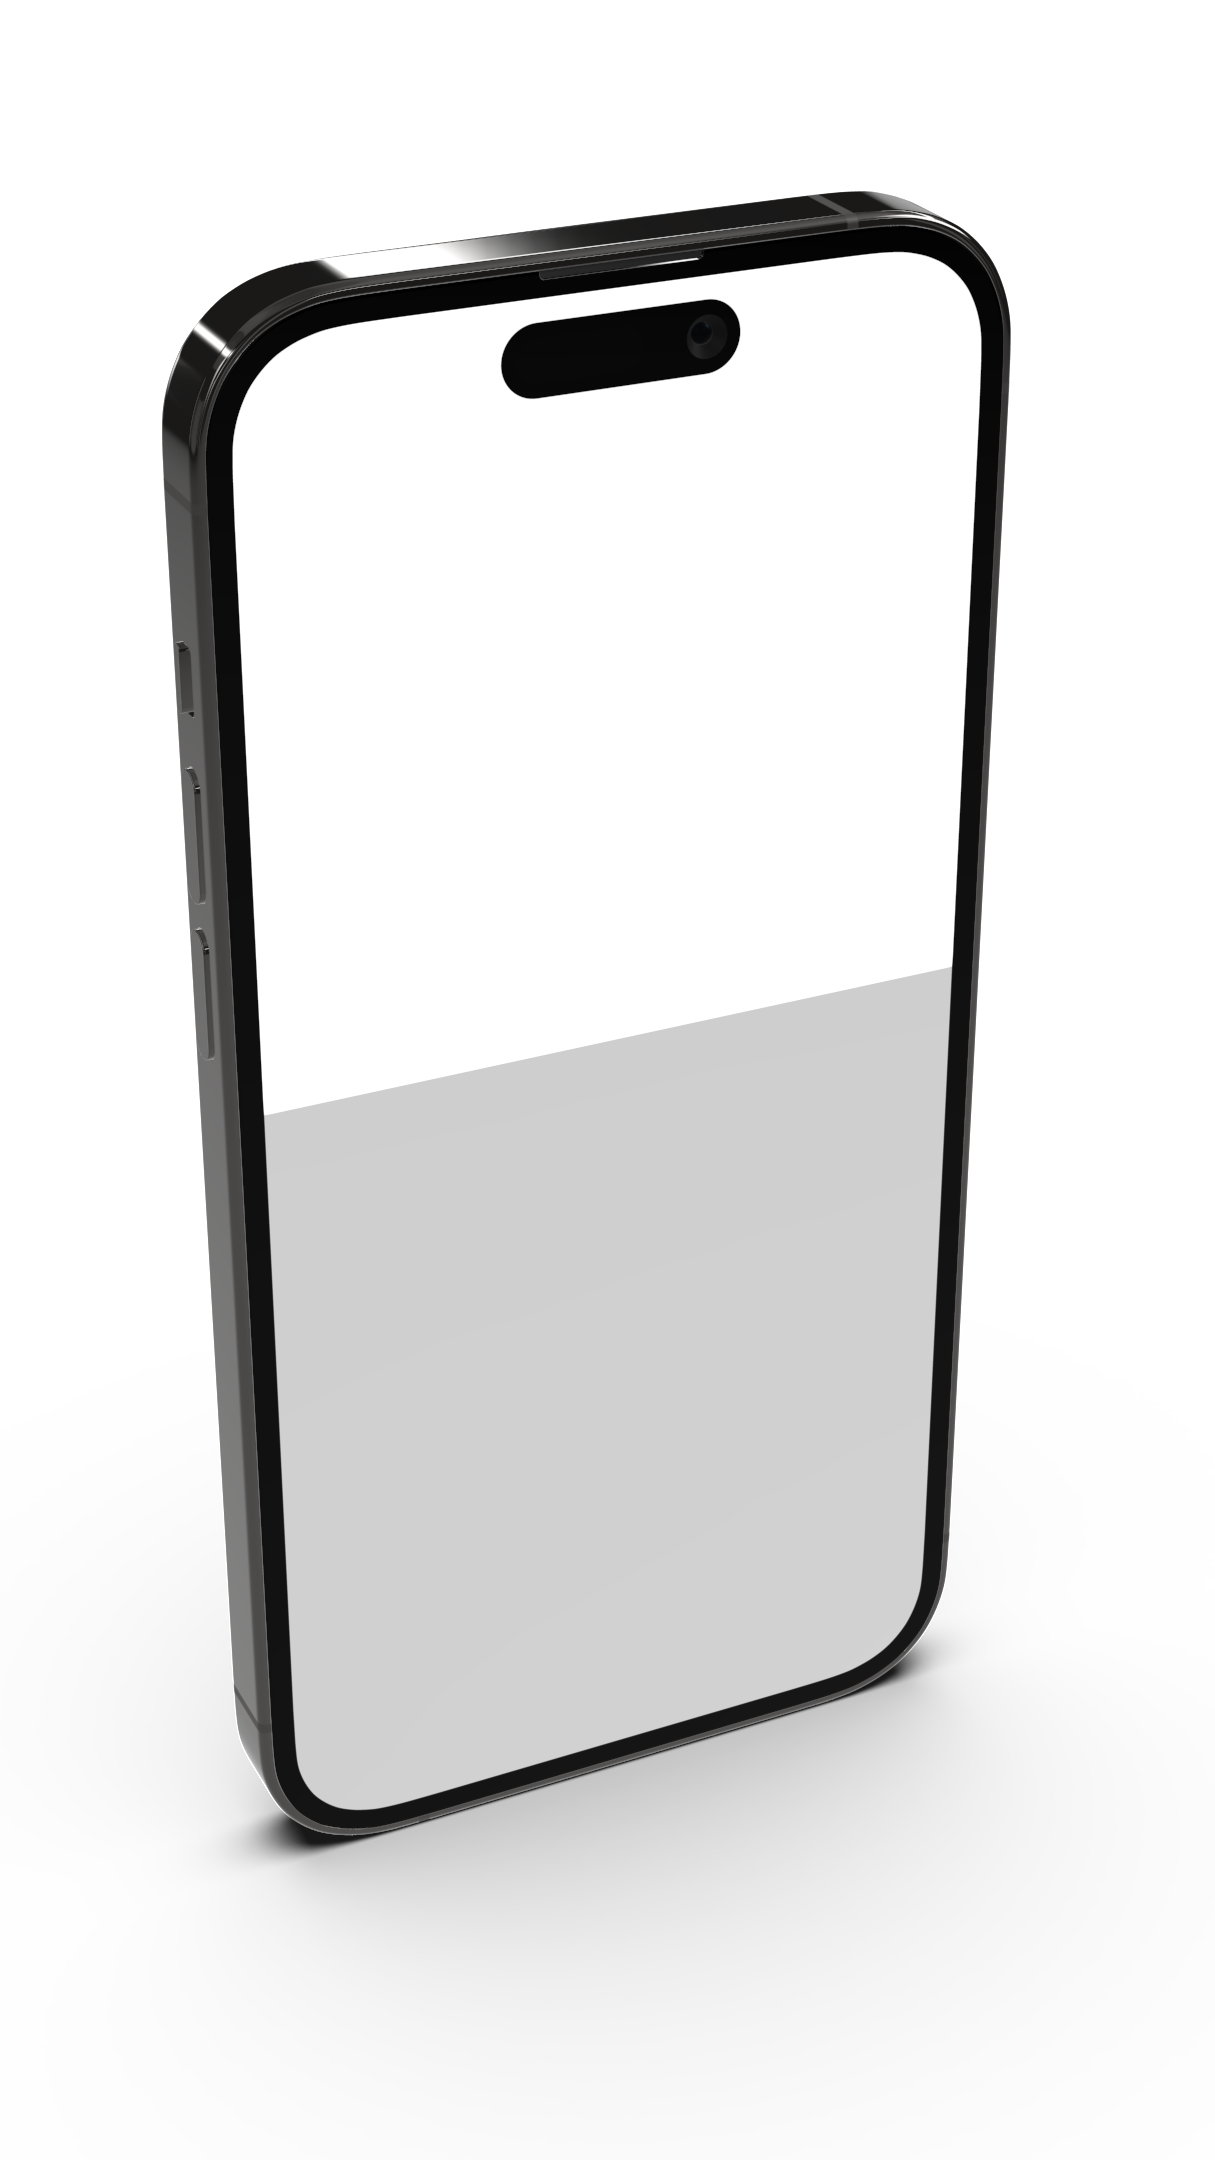
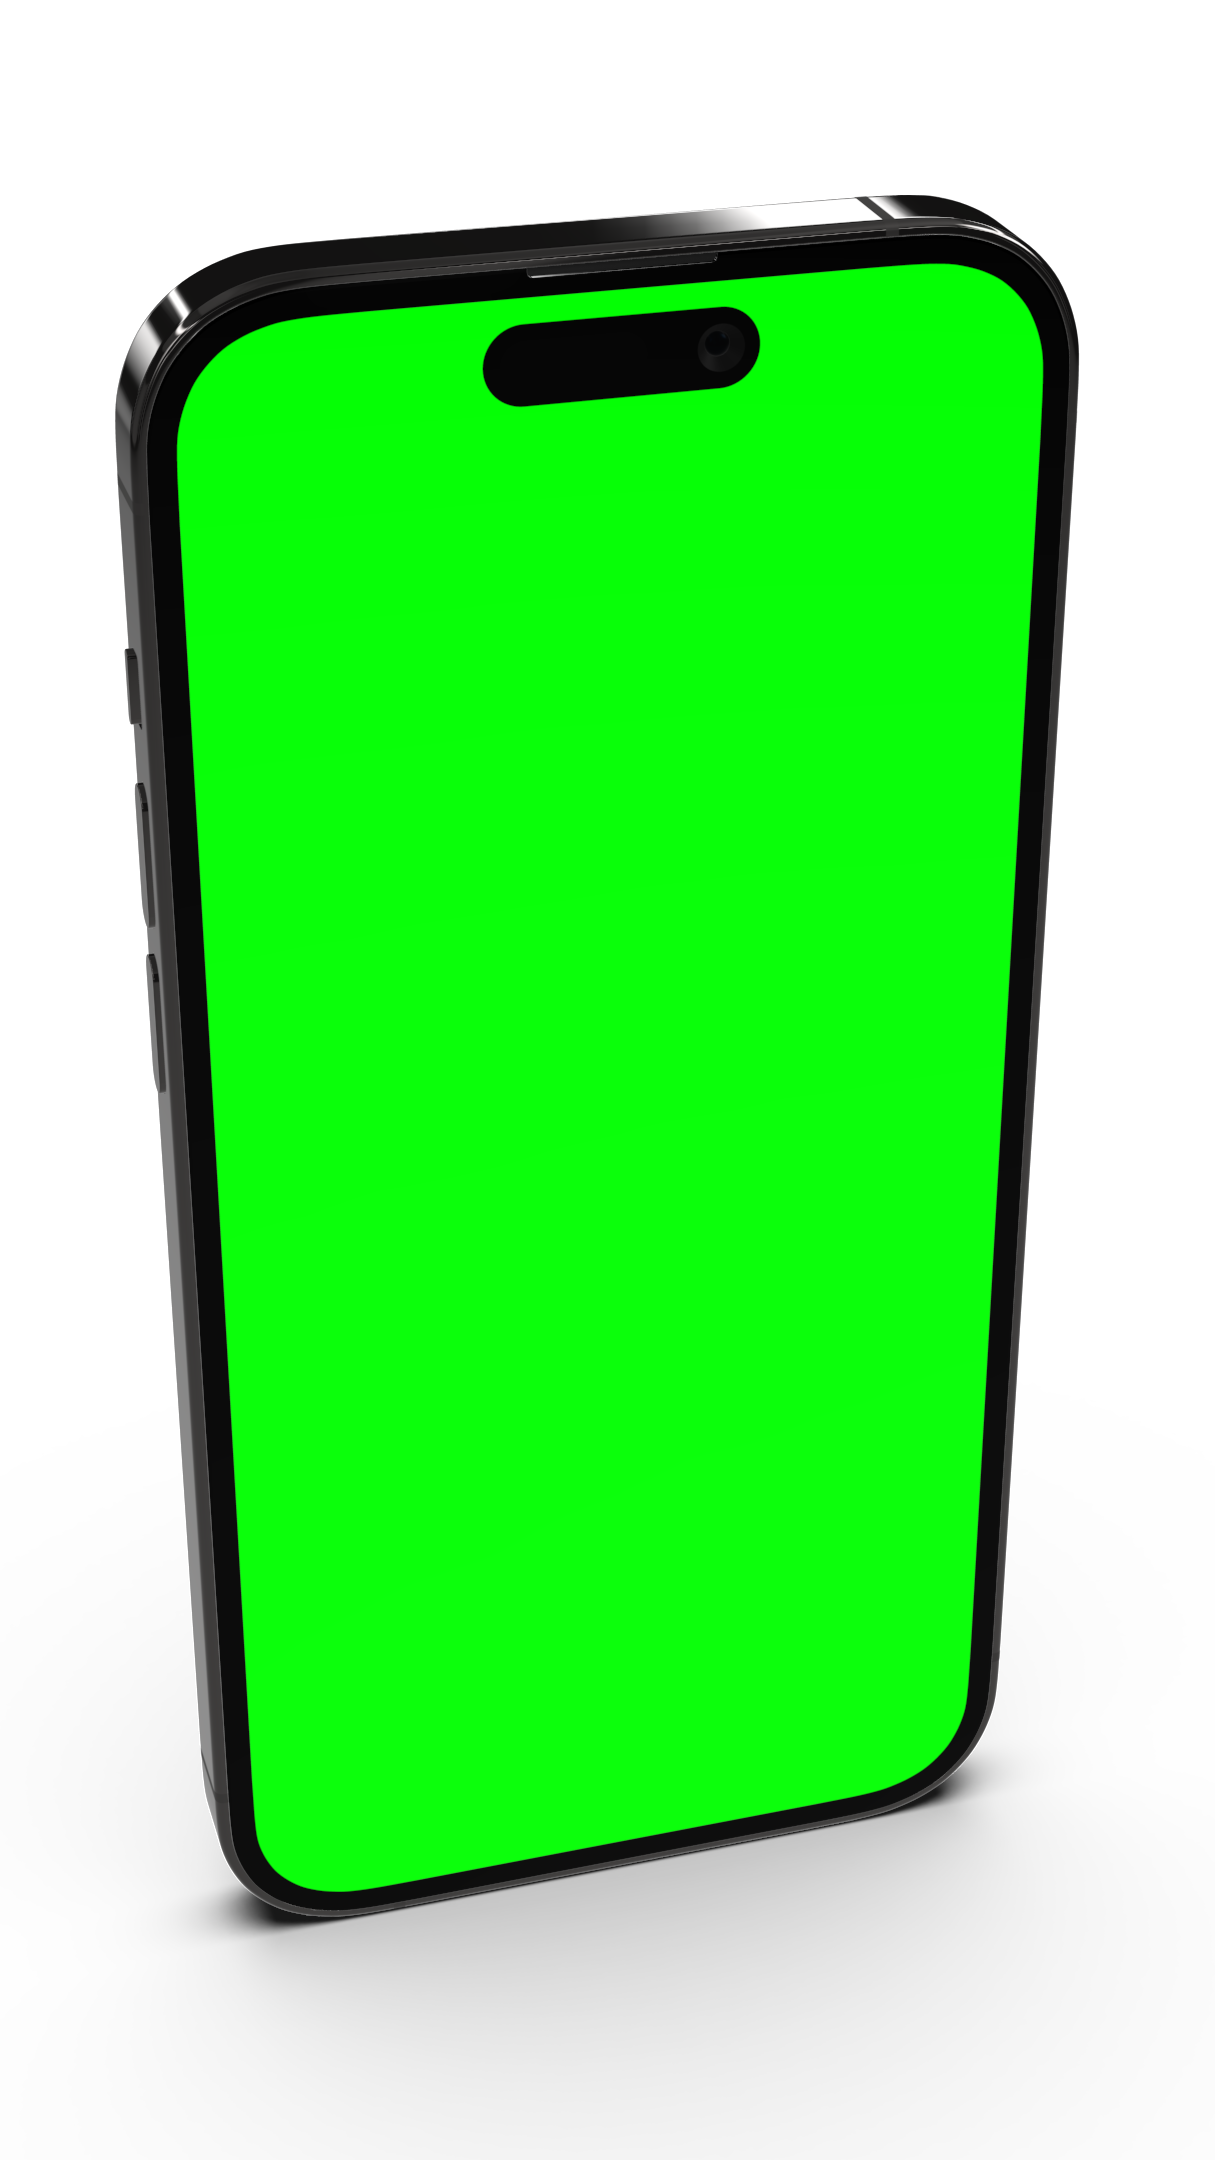
added new device added automatic screen masking function (for round edges and notches) new blur function based on border-pixel

diff --git a/libs/imageFusion.py b/libs/imageFusion.py
@@ -1,4 +1,3 @@
-from PIL import Image, ImageDraw, ImageFilter
 import cv2
 import numpy as np
 import os
@@ -10,66 +9,121 @@ class TransparentImageOverlay:
         self.transformPoints = np.array(points, dtype=np.float32)
 
     def overlay_images(self, output_path, keepScreenshot=False):
+
         # Öffne die beiden Bilder und konvertiere sie in BGRA-Modus, um Transparenz zu unterstützen
         background = cv2.imread(self.bottom_image_path, cv2.IMREAD_UNCHANGED)
+
+        # Oeffne Screenshot
         screenshot = cv2.imread(self.top_image_path, cv2.IMREAD_UNCHANGED)
+        alpha_screen, screen_glare = self.process_green_pixels(background)
 
-        # Füge das Leuchten (verwischter Hintergrund) hinter dem Screenshot hinzu
-        screen_glow = self.add_blur(background, screenshot, 100)
+        # Transform and Mask Screenshot
+        transformed_screen = self.add_four_point_transform(screenshot, background.shape, alpha_screen)
+        screen_glow = self.create_border_glow(transformed_screen, background.shape)
 
-        glowBackground = self.overlay(screen_glow, background);
-
-        # Füge die 4-Punkt-Transformation hinzu
-        final_image = self.add_four_point_transform(glowBackground, screenshot)
+        layer1 = self.overlay(screen_glow, background)
+        layer2 = self.overlay(transformed_screen, layer1)
+        layer3 = self.overlay(screen_glare, layer2)
 
         # Save the new image in BGRA format
-        cv2.imwrite(output_path, final_image)
+        cv2.imwrite(output_path, layer3)
 
-        if keepScreenshot is not True:
+        if keepScreenshot is False:
             self.removeScreenshotTemp()
 
-    def add_blur(self, background, screenshot, blur_radius=30):
-        h, w = background.shape[:2]
+    def process_green_pixels(self, input_image):
+        print("...generate screen alpha-channel")
+        height, width, channels = input_image.shape
+
+        # Initialize empty images for the alpha mask and the overlay layer
+        alpha_mask = np.zeros((height, width), dtype=np.uint8)
+        overlay_layer = np.zeros((height, width, 4), dtype=np.uint8)
+
+        # Go over each pixel in the input image
+        for y in range(height):
+            for x in range(width):
+                b, g, r, a = input_image[y, x]
+
+                # Check if the pixel has a high green value and low red and blue values
+                if g > 150 and r < 150 and b < 150:
+                    # Create a masking pixel on the alpha mask
+                    alpha_mask[y, x] = 255
+
+                    # Add a pixel onto the overlay layer with transparency
+                    overlay_layer[y, x] = (b, int((r + b) / 2), r, (255 - g))
+
+        #grow mask by 1px
+        kernel = np.ones((3, 3), np.uint8)
+        alpha_mask = cv2.dilate(alpha_mask, kernel, iterations=1)
+
+        return alpha_mask, overlay_layer
+
+
+    def create_border_glow(self, screen, bg_shape, glow_radius= 500, glow_intensity=15):
+        h, w = bg_shape[:2]
 
         # Erstelle ein neues transparentes leeres Bild auf Größe des Hintergrunds
         empty_image = np.zeros((h, w, 4), dtype=np.uint8)
+        image = self.overlay(screen, empty_image)
 
-        # Setze den Screenshot mit 4-Point-Transform an die richtige Stelle auf das leere Bild
-        empty_image = self.add_four_point_transform(empty_image, screenshot)
+        border_mask = self.detect_borders(image)
+        border_mask = border_mask.astype(np.float32) / 255.0
 
-        # Wende einen Blur auf das komplette Bild an
-        blurred_image = cv2.GaussianBlur(empty_image, (0,0), blur_radius)
+        glow = np.zeros((h, w, 4), dtype=np.float32)
+        glow[:, :, :3] = image[:, :, :3].astype(np.float32) / 255.0
+        glow[:, :, 3] = border_mask
 
-        return cv2.addWeighted(blurred_image, 1.5, np.zeros(blurred_image.shape, blurred_image.dtype), 0, 1)
+        ksize = 2 * (glow_radius // 2) + 1
+        blurred_glow = cv2.GaussianBlur(glow, (ksize, ksize), 0)
 
-    def add_four_point_transform(self, background, screenshot):
+        img_float = image.astype(np.float32) / 255.0
+        intensified_glow = blurred_glow * glow_intensity
+
+        alpha_glow = intensified_glow[:, :, 3]
+        alpha_image = img_float[:, :, 3]
+        alpha_combined = alpha_glow + (1 - alpha_glow) * alpha_image
+
+        output = np.copy(img_float)
+        for c in range(3):
+            output[:, :, c] = np.divide(
+                alpha_glow * intensified_glow[:, :, c] + (1 - alpha_glow) * img_float[:, :, c] * alpha_image,
+                alpha_combined,
+                out=np.zeros_like(alpha_combined),
+                where=(alpha_combined != 0)
+            )
+        output[:, :, 3] = (1 - alpha_image) * alpha_glow
+
+        return (output * 255.0).astype(np.uint8)
+
+    def detect_borders(self, image):
+        gray = cv2.cvtColor(image, cv2.COLOR_BGRA2GRAY)
+        _, thresholded = cv2.threshold(gray, 0, 255, cv2.THRESH_BINARY)
+
+        contours, _ = cv2.findContours(thresholded, cv2.RETR_EXTERNAL, cv2.CHAIN_APPROX_SIMPLE)
+        border_mask = np.zeros_like(thresholded)
+        cv2.drawContours(border_mask, contours, -1, 255, 1)
+
+        return border_mask
+
+    def add_four_point_transform(self, screenshot, background_shape, mask):
+        print("...transforming Screenshot")
         # Calculate the 4-point transformation
         pts_src = np.array(
             [[0, 0], [screenshot.shape[1], 0], [screenshot.shape[1], screenshot.shape[0]], [0, screenshot.shape[0]]],
             dtype=np.float32)
 
         h, status = cv2.findHomography(pts_src, self.transformPoints)
-        out = cv2.warpPerspective(screenshot, h, (background.shape[1], background.shape[0]))
+        out = cv2.warpPerspective(screenshot, h, (background_shape[1], background_shape[0]))
 
-        # Add the transformed image onto the background image
-        alpha_screenshot = out[:, :, 3] / 255.0
-        alpha_background = background[:, :, 3] / 255.0
-        alpha_combined = alpha_screenshot + (1 - alpha_screenshot) * alpha_background
-        final_alpha = (alpha_combined * 255).astype(np.uint8)
+        # Apply a Mask to the wraped image
+        if len(mask) > 0:
+            out = cv2.merge((out[:, :, 0], out[:, :, 1], out[:, :, 2], mask))
+            print("...applying screen masking")
 
-        for c in range(0, 3):
-            background[:, :, c] = np.divide(
-                alpha_screenshot * out[:, :, c] + (1 - alpha_screenshot) * background[:, :, c] * alpha_background,
-                alpha_combined,
-                out=np.zeros_like(alpha_combined),
-                where=(alpha_combined != 0)
-            )
-
-        background[:, :, 3] = final_alpha
-
-        return background
+        return out
 
     def overlay(self, image1, image2):
+        print("...blending")
         # Add the two images together, preserving alpha channel
         alpha_screenshot = image1[:, :, 3] / 255.0
         alpha_background = image2[:, :, 3] / 255.0

diff --git a/libs/Promt.py b/libs/Promt.py
@@ -26,7 +26,7 @@ class PromtManager:
         return url
 
     def getHideClass(self):
-        removeClass = input("\nAre there DOM-elements you want to hide? Enter the class name here:\n(Just press enter if you don't want to hide anything)\n")
+        removeClass = input("\nAre there any DOM-elements you want to hide? Enter the class name here:\n(Just press enter if you don't want to hide anything)\n")
 
         if len(removeClass) < 1:
             removeClass = False

diff --git a/PythonMockup.py b/PythonMockup.py
@@ -18,7 +18,7 @@ screenshot = WebsiteScreenshot(
 )
 
 # Create new Overlay Image
-print("mergin images...")
+print("Starting image processor")
 screenPos = mockup.get("position")
 photoBooth = TransparentImageOverlay(
     bottom_image_path=mockup.get("mockupImage"),
